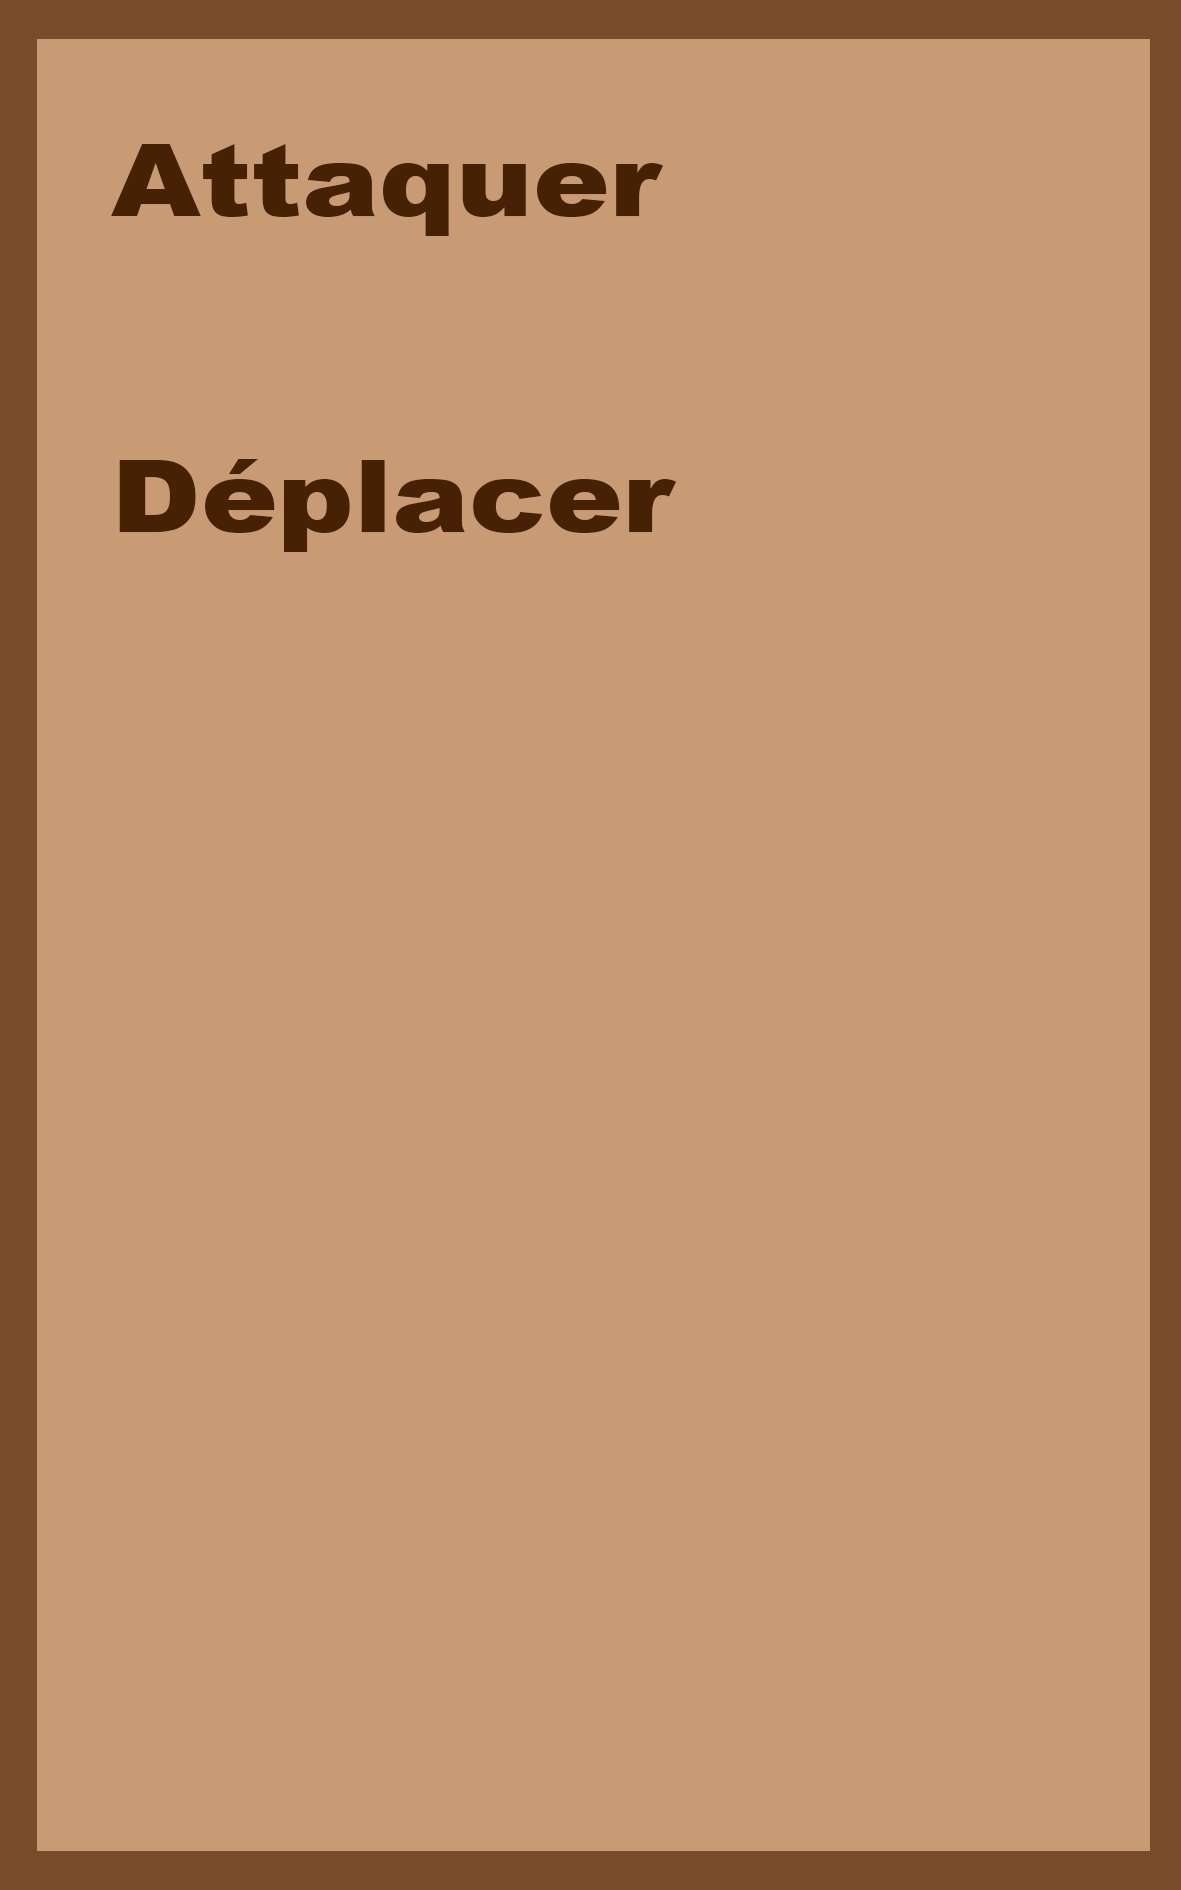
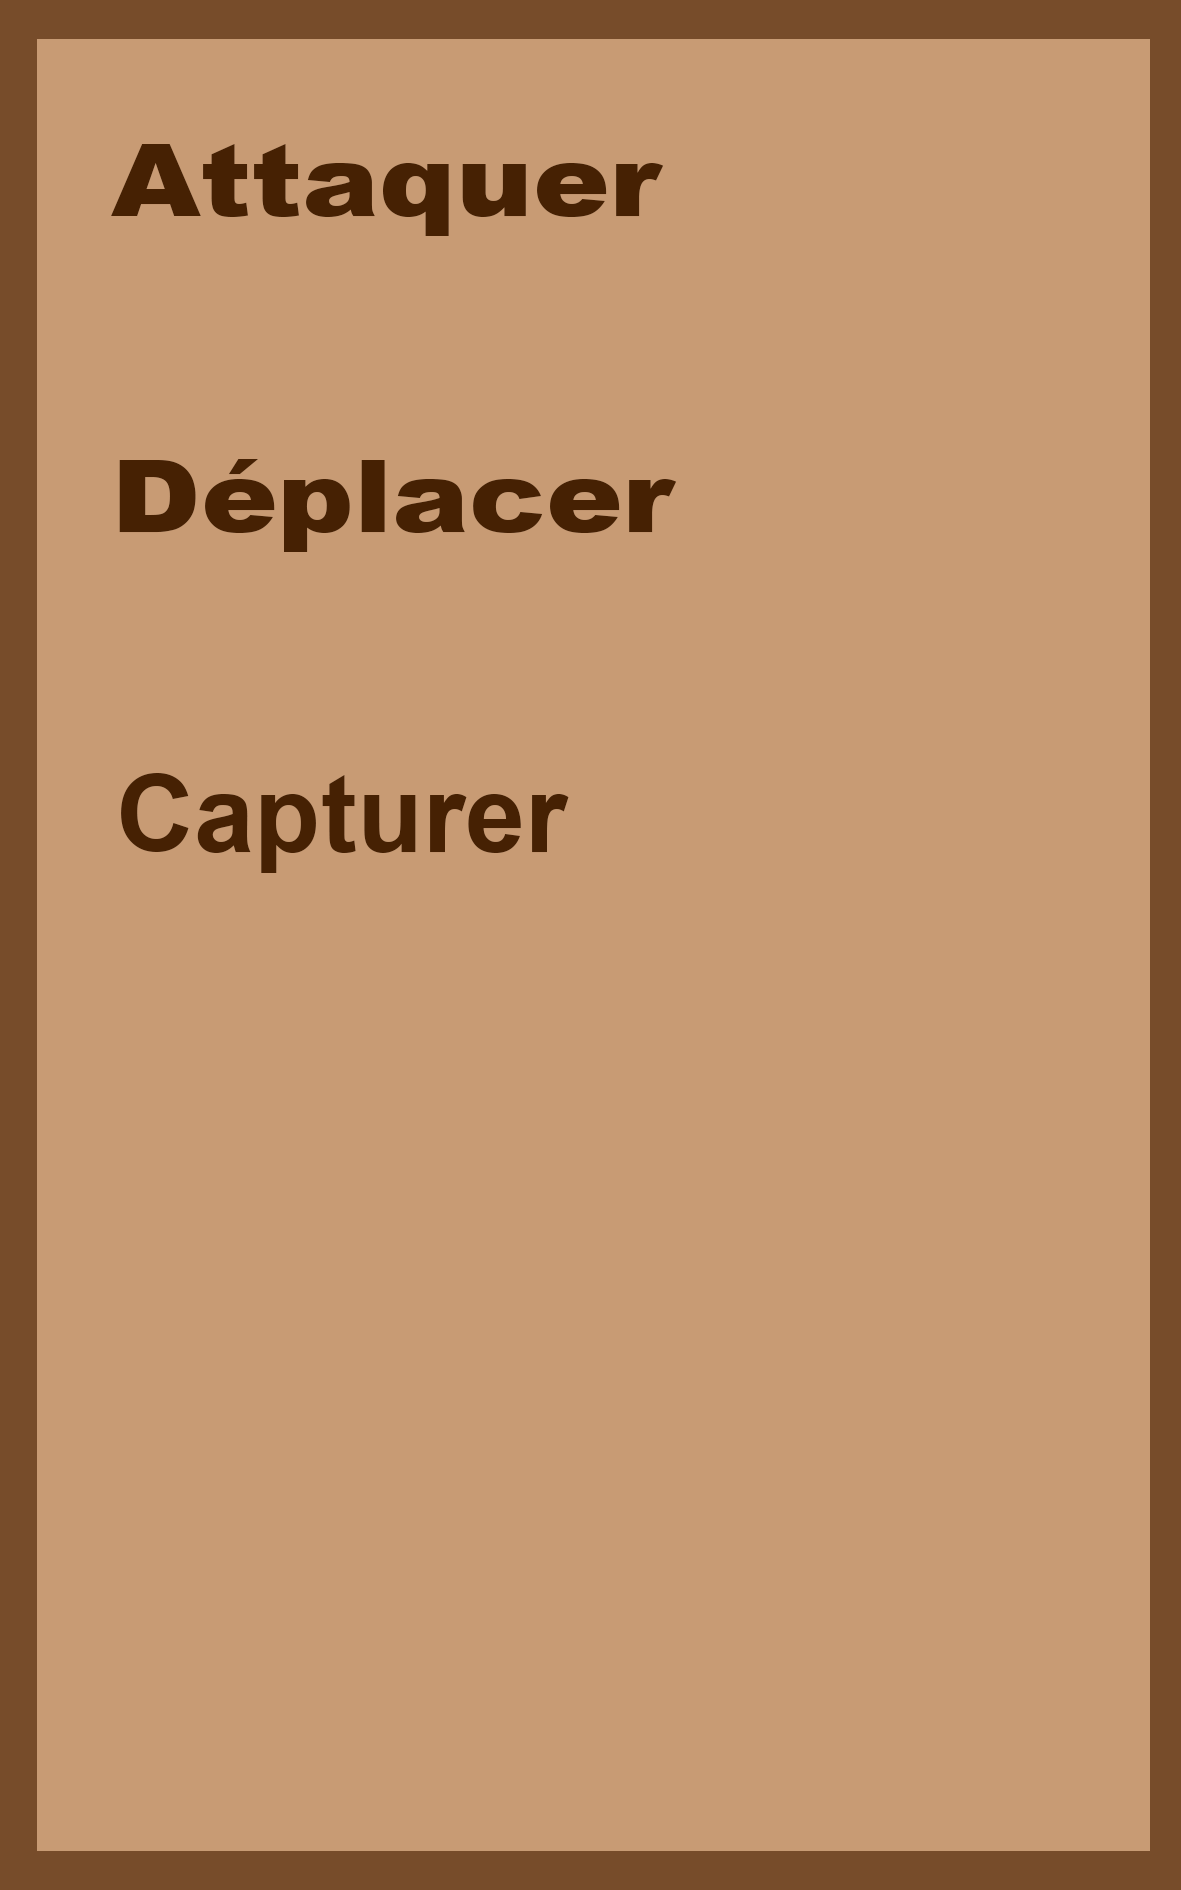
Ajout: Gestioncapture et batiments

Changed region(s): [[0.0914, 0.4058, 0.4877, 0.4683]]

diff --git a/src/jeu/Jeu.java b/src/jeu/Jeu.java
@@ -14,14 +14,17 @@ public class Jeu {
 	Map map;
 	/**Contexte graphique dans lequel on affiche le jeu */
 	GraphicsContext gc;
-	/**Entier qui decrit si on est: 0 dans le jeu; 1 dans le menu1(deplacement/attaque); 2 dans le menu2(changertour) */
+	/**Entier qui decrit si on est: 0 dans le jeu; 1 dans le menu1(deplacement/attaque/capture); 2 dans le menu2(changertour) */
 	int menu;
-	/**Position du curseur dans le menu 0 : attaquer et 1 : deplacer */
+	/**Position du curseur dans le menu 0 : attaquer; 1 : deplacer et 2 : capturer */
 	int positioncurseur1;
 	/**Boolean qui decrit si l'on doit rafraichir l'affichage ou non : true = il faut rafraichir */
 	boolean update;
+	/**Objet contenant les methodes pour gerer l'attaque entre unites*/
 	Gestionatq atq;
+	/**Objet contenant les methodes pour gerer le deplacement des unites*/
 	Gestiondepl depl;
+	/**Objet contenant les methodes pour gerer la capture des batiments*/
 	Gestioncapture capt;
 
 	
@@ -95,6 +98,10 @@ public class Jeu {
 		    					menu = depl.deplacement();
 		    					capt.refreshCapture();
 		    					
+		    				}
+		    				else if (positioncurseur1==2) {
+		    					// gestion de la capture
+		    					menu = capt.capture();
 		    				}
 		    				update=true;
 		    				break;
@@ -194,13 +201,13 @@ public class Jeu {
 
 	    default:
 	    		break;
-		}
+		} 
 	}
 
 /*_Mettre a jour la position du curseur du menu1__________________________________________________________________________________ */		
 	
 	void upcurseur1() {if (positioncurseur1 != 0) {positioncurseur1 -= 1;}}
-	void downcurseur1() {if (positioncurseur1 != 1){positioncurseur1 += 1;}}
+	void downcurseur1() {if (positioncurseur1 != 2){positioncurseur1 += 1;}}
 	
 	
 	/**

diff --git a/src/jeu/Batiment.java b/src/jeu/Batiment.java
@@ -7,6 +7,7 @@ public class Batiment extends Element{
 	/**Entier qui decrit les points de vie du batimen*/
 	int pv;
 	
+	
 /*_Methode de base de l'objet_______________________________________________________________________________________________________ */
 	
 	/**
@@ -24,7 +25,8 @@ public class Batiment extends Element{
 		maxcompteur = 1;	
 		joueur = 0;
 		pv = 100;
-		images = new String[0]; // Lorsque les types fille sont creees, mettre cette ligne dans le constructeur du type fille
+		images = new String[1]; // Lorsque les types fille sont creees, mettre cette ligne dans le constructeur du type fille
+		images[0] = "batiment"+".png";
 	}
 	public String toString() {
 		return "batiment"; // A changer en methode abstraite avec le bon nom selon le type de batiment fille

diff --git a/src/jeu/Map.java b/src/jeu/Map.java
@@ -187,6 +187,12 @@ public class Map {
         plateau[rang].terrain=terrain;
     }
     
+    /**
+     * Fonction qui ajoute le batiment sur le rang "rang" de map.
+     */
+    void addbatiment(int rang, Batiment batiment) {
+    	plateau[rang].batiment=batiment;
+    }
     
     /**
      * Fonction qui ajoute l'unite "unite" sur le rang "rang" de map.
@@ -224,6 +230,7 @@ public class Map {
         addunite(105,new Scarabe(taillec,1),1);
         addunite(106,new Scarabe(taillec,1),1);
         addunite(107,new Scarabe(taillec,1),1);
+        addbatiment(157,new Batiment(taillec));
         this.affichageEquipe(0);
         this.affichageEquipe(1);
         

diff --git a/src/jeu/Case.java b/src/jeu/Case.java
@@ -46,7 +46,7 @@ public class Case {
 			affichage = affichage+"Unite: aucune"+"\n";
 		}
 		if (this.batiment !=null) {
-			affichage = affichage+"Batiment: "+this.batiment.toString()+"\n";
+			affichage = affichage+"Batiment: "+this.batiment.toString()+this.batiment.joueur+"\n";
 		}
 		else {
 			affichage = affichage+"Batiment: aucun"+"\n";

diff --git a/src/jeu/Gestioncapture.java b/src/jeu/Gestioncapture.java
@@ -13,7 +13,7 @@ public class Gestioncapture {
 	}
 	
 	public boolean verifCase() {
-		if (map.selectionnemenu.batiment != null) {
+		if (map.selectionnemenu.batiment != null && map.selectionnemenu.batiment.joueur != map.selectionnemenu.unite.joueur) {
 			return true;
 		}
 		return false;
